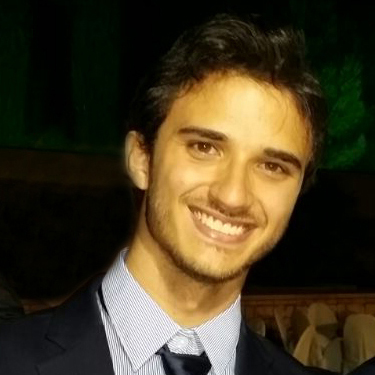
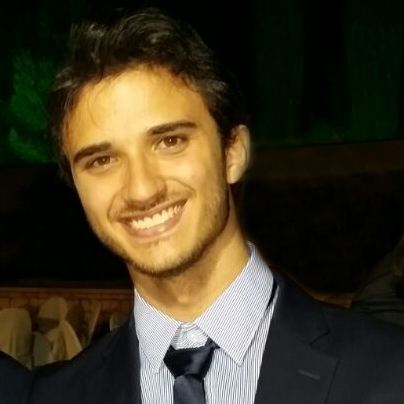
About section

diff --git a/src/components/About/About.jsx b/src/components/About/About.jsx
@@ -7,7 +7,7 @@ import PortfolioContext from '../../context/context';
 
 const About = () => {
   const { about } = useContext(PortfolioContext);
-  const { img, paragraphOne, paragraphTwo, paragraphThree, resume } = about;
+  const { img } = about;
 
   const [isDesktop, setIsDesktop] = useState(false);
   const [isMobile, setIsMobile] = useState(false);
@@ -37,18 +37,27 @@ const About = () => {
           <Col md={6} sm={12}>
             <Fade left={isDesktop} bottom={isMobile} duration={1000} delay={1000} distance="30px">
               <div className="about-wrapper__info">
+                <pre className="code-block"><code>Hello World!</code></pre>
                 <p className="about-wrapper__info-text">
-                  {paragraphOne ||
-                    'Lorem ipsum dolor sit, amet consectetur adipisicing elit. Excepturi neque, ipsa animi maiores repellendu distinctioaperiam earum dolor voluptatum consequatur blanditiis inventore debitis fuga numquam voluptate architecto itaque molestiae.'}
+                  My name is <b>Giuseppe Barbato</b>, I am a <b>26 years old software engineer</b> from Bari, Italy.
                 </p>
                 <p className="about-wrapper__info-text">
-                  {paragraphTwo ||
-                    'Lorem ipsum dolor sit, amet consectetur adipisicing elit. Excepturi neque, ipsa animi maiores repellendu distinctioaperiam earum dolor voluptatum consequatur blanditiis inventore debitis fuga numquam voluptate architecto itaque molestiae.'}
+                  I <i>love</i> building <b>efficient, clean and reliable software</b> since my early years and, because of that, I turned <b>hundreds of hours of studying</b> code-related material into my job.
+                  <br />
+                  I always learn new <i>technologies, frameworks and methodologies</i>.
+                  <br />
+                  The software engineering world runs fast but I keep up the pace!
                 </p>
                 <p className="about-wrapper__info-text">
-                  {paragraphThree || 'Lorem ipsum dolor sit, amet consectetur adipisicing elit.'}
+                  In 2018 <b>I graduated in Computer Science</b> and started working for a corporation in the <i>banking business area</i>.
                 </p>
-                {resume && (
+                <p className="about-wrapper__info-text">
+                  I currently work as consultant for a <i>world-known group</i>, developing an Enterprise Software used by <b>20.000+ professionals <i>in the legal sector</i></b>.
+                </p>
+                <p className="about-wrapper__info-text">
+                  I am used to work with <b>AGILE methodology</b> and I cover the role of <b>Scrum Master</b> in my team.
+                </p>
+                {/* {resume && (
                   <span className="d-flex mt-3">
                     <a
                       target="_blank"
@@ -59,7 +68,7 @@ const About = () => {
                       Resume
                     </a>
                   </span>
-                )}
+                )} */}
               </div>
             </Fade>
           </Col>

diff --git a/src/style/sections/_about.scss b/src/style/sections/_about.scss
@@ -12,6 +12,21 @@
   clip-path: polygon(0 0, 100% 0, 100% 80%, 0 100%);
   padding-bottom: 10%;
 
+  .code-block {
+    background: white;
+    clear: both;
+    color: $primary-dark;
+    font-family: 'Inconsolata', monospace;
+    hyphens: none;
+    line-height: 2rem;
+    min-width: 100%;
+    position: relative;
+    word-break: normal;
+    border: 1px solid #787878;
+    border-radius: 4px;
+    font-size: 1rem;
+  }
+
   @include respond(tab-land) {
     height: 100%;
     -webkit-clip-path: none;
@@ -51,11 +66,11 @@
         text-align: left;
 
         @include respond(tab-port) {
-          font-size: 1.5rem;
+          font-size: 1rem;
           text-align: center;
         }
         @include respond(phone) {
-          font-size: 1.6rem;
+          font-size: 1rem;
           text-align: center;
         }
 

diff --git a/src/components/Image/AboutImg.jsx b/src/components/Image/AboutImg.jsx
@@ -13,7 +13,7 @@ const AboutImg = ({ filename, alt }) => (
               relativePath
               name
               childImageSharp {
-                fixed(width: 350) {
+                fixed(quality: 100) {
                   ...GatsbyImageSharpFixed
                 }
               }

diff --git a/src/style/base/_typography.scss b/src/style/base/_typography.scss
@@ -30,7 +30,7 @@ a:hover {
   text-transform: uppercase;
 
   @include respond(phone) {
-    font-size: 2.8rem;
+    font-size: 2.5rem;
   }
 }
 

diff --git a/src/style/components/_buttons.scss b/src/style/components/_buttons.scss
@@ -70,7 +70,7 @@
   }
 
   &:hover {
-    color: $text-primary;
+    color: $primary;
     text-decoration: none;
 
     &::after {
